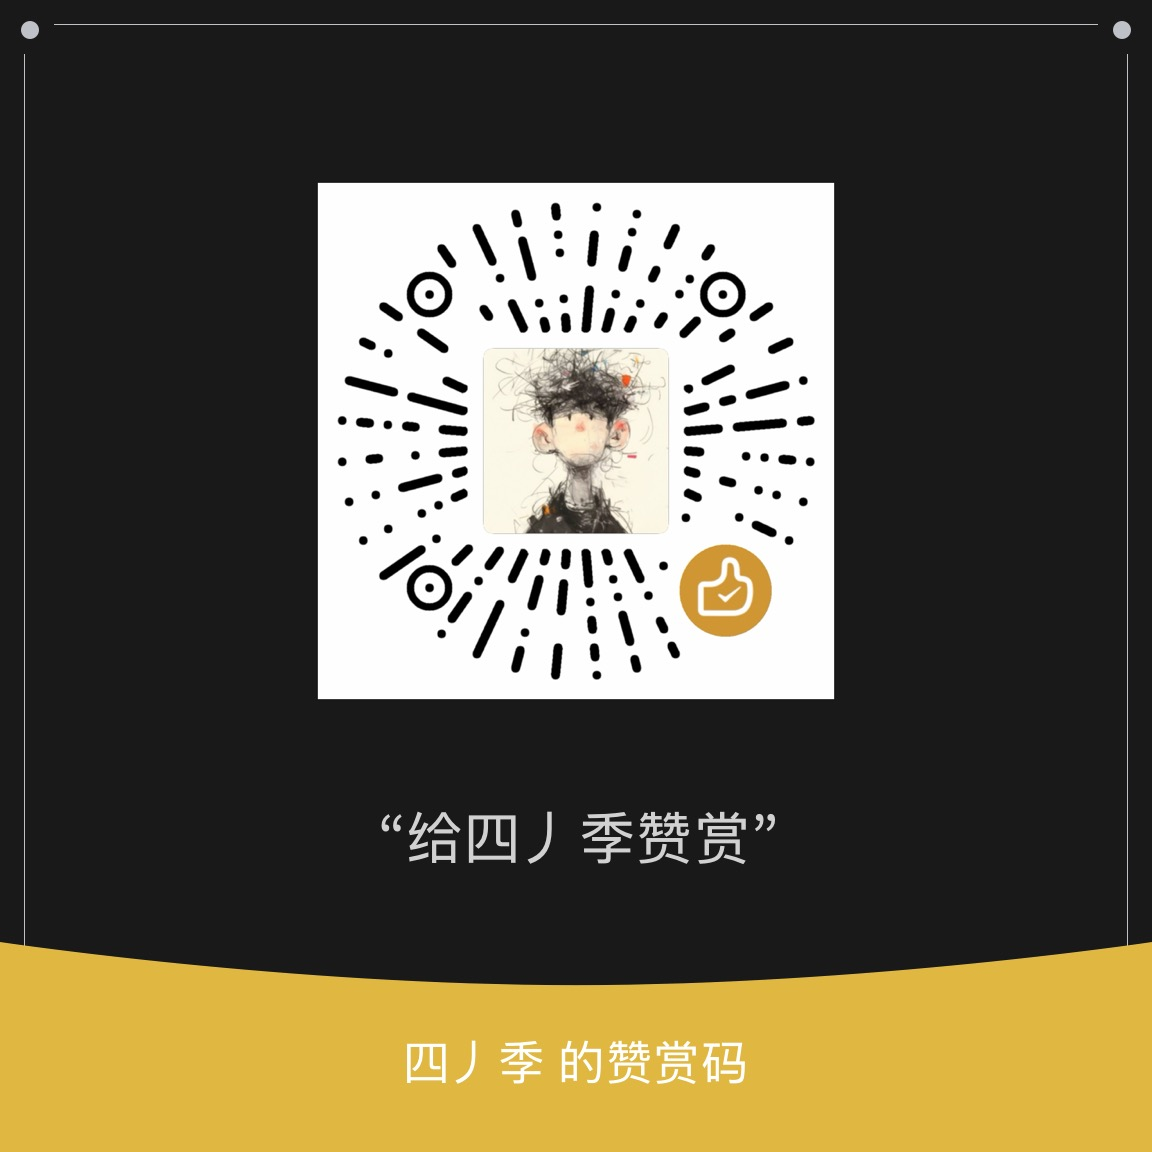
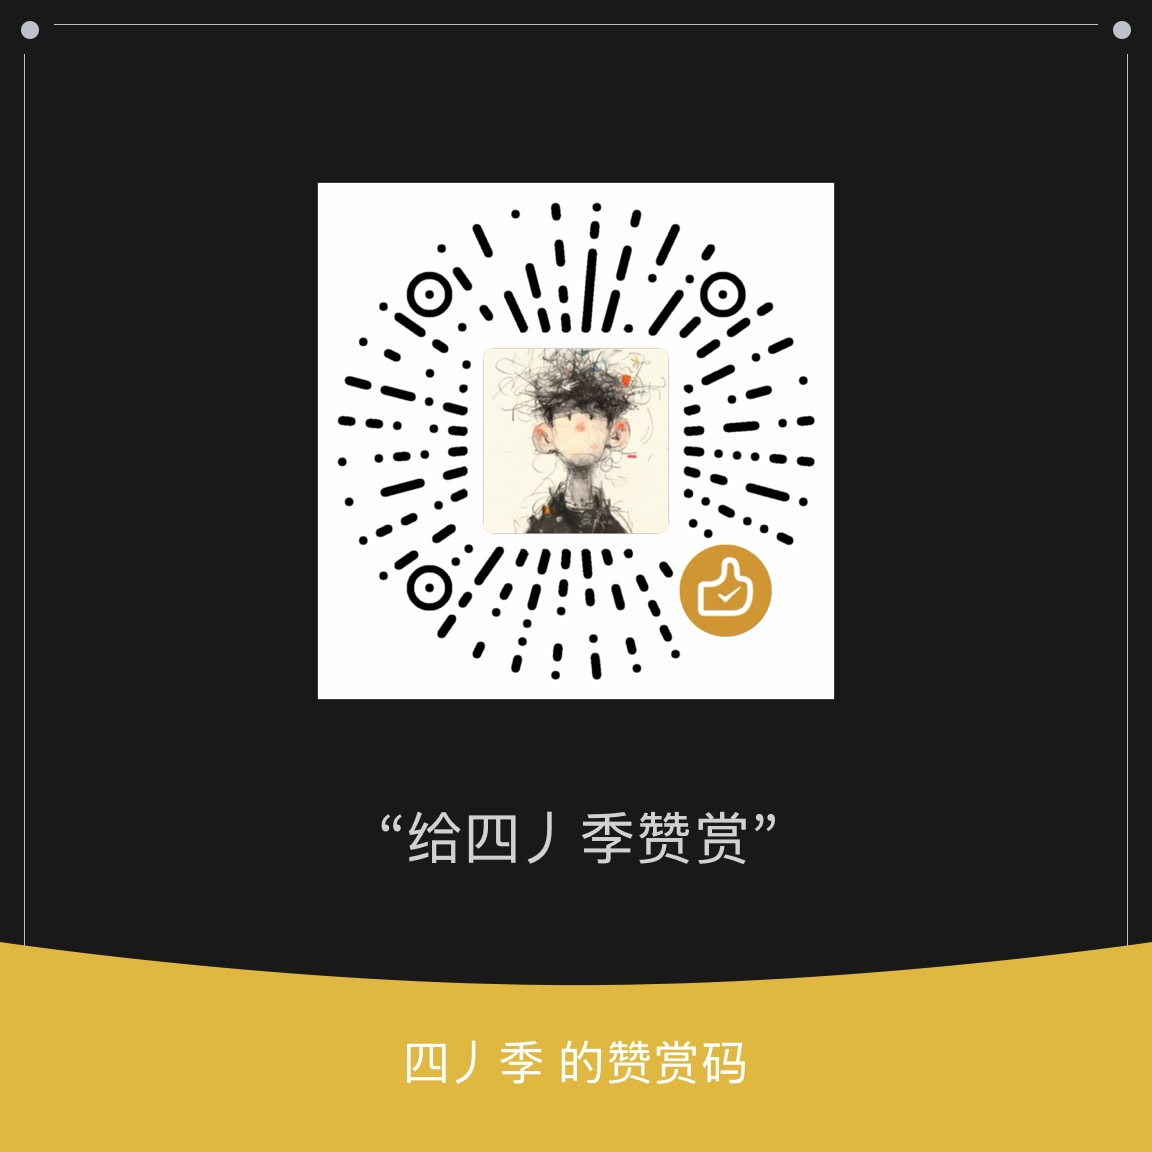
Update appreciation code with supplied image

diff --git a/site/index.html b/site/index.html
@@ -48,7 +48,7 @@
 <details><summary>遇到连接问题，如何说明情况？<span aria-hidden="true">＋</span></summary><p>记录车机年款、iPhone 型号、iOS 版本以及无线或 USB 连接方式，在下方交流区提供这些信息，方便一起排查。</p></details>
 </div></div></section>
 <section class="community-section container" id="community" aria-labelledby="community-title"><div class="community-card"><div class="community-icon" aria-hidden="true"><svg class="icon" viewBox="0 0 24 24"><path d="M21 11a8 8 0 0 1-8 8H7l-5 3 2-6a8 8 0 1 1 17-5Z"/><path d="M7 10h10m-10 4h6"/></svg></div><div class="community-copy"><span class="eyebrow">AUTUNNPLAY COMMUNITY</span><h2 id="community-title">一起聊聊，每次连接。</h2><p>加入 <strong>Autunnplay交流群</strong>，交流车型适配、安装方法和使用体验。</p><div class="community-actions"><a class="button primary" href="https://qm.qq.com/q/5XZu4U8flY" target="_blank" rel="noopener noreferrer" aria-label="加入 Autunnplay交流群">立即加入 QQ 群 <span aria-hidden="true">↗</span></a><button class="button secondary" type="button" id="copy-group-link">复制入群链接</button></div></div></div></section>
-<section class="support-section container" id="support" aria-labelledby="support-title"><div class="support-card appreciation-card"><div class="support-heading"><span class="eyebrow">APPRECIATE INDEPENDENT DEVELOPMENT</span><h2 id="support-title">给独立开发，一份赞赏。</h2><p>如果 Autunn Play 对你有帮助，欢迎赞赏支持独立开发。赞赏完全自愿，是否赞赏不影响软件的下载与使用。</p></div><figure class="appreciation-code"><a href="./assets/appreciation-code.jpg" target="_blank" rel="noopener" aria-label="查看四丿季赞赏码原图"><img src="./assets/appreciation-code.jpg" width="1152" height="1152" alt="四丿季的赞赏码" loading="lazy"></a><figcaption>点按查看原图</figcaption></figure><div class="appreciation-actions"><div class="support-actions"><a class="button primary" href="./assets/appreciation-code.jpg" download="四丿季-赞赏码.jpg">保存赞赏码 <span aria-hidden="true">↓</span></a><a class="support-secondary" href="./assets/appreciation-code.jpg" target="_blank" rel="noopener">查看大图 <span aria-hidden="true">↗</span></a></div><p class="support-note">手机端可点开原图后长按识别，或保存图片后识别；电脑端可用手机扫描。</p></div></div></section>
+<section class="support-section container" id="support" aria-labelledby="support-title"><div class="support-card appreciation-card"><div class="support-heading"><span class="eyebrow">APPRECIATE INDEPENDENT DEVELOPMENT</span><h2 id="support-title">给独立开发，一份赞赏。</h2><p>如果 Autunn Play 对你有帮助，欢迎赞赏支持独立开发。赞赏完全自愿，是否赞赏不影响软件的下载与使用。</p></div><figure class="appreciation-code"><a href="./assets/appreciation-code.jpg?v=69404a6b4bf4" target="_blank" rel="noopener" aria-label="查看四丿季赞赏码原图"><img src="./assets/appreciation-code.jpg?v=69404a6b4bf4" width="1152" height="1152" alt="四丿季的赞赏码" loading="lazy"></a><figcaption>点按查看原图</figcaption></figure><div class="appreciation-actions"><div class="support-actions"><a class="button primary" href="./assets/appreciation-code.jpg?v=69404a6b4bf4" download="四丿季-赞赏码.jpg">保存赞赏码 <span aria-hidden="true">↓</span></a><a class="support-secondary" href="./assets/appreciation-code.jpg?v=69404a6b4bf4" target="_blank" rel="noopener">查看大图 <span aria-hidden="true">↗</span></a></div><p class="support-note">手机端可点开原图后长按识别，或保存图片后识别；电脑端可用手机扫描。</p></div></div></section>
 </main>
 <footer class="site-footer container"><div><a class="brand" href="#"><span class="brand-mark"></span><span>Autunn Play</span></a><p>独立开发的车机连接软件。</p></div><div class="footer-right"><p class="source-credit">本项目使用了 <a href="https://github.com/shihabal3amri/DiPlay" target="_blank" rel="noopener noreferrer">DiPlay</a> 与 <a href="https://github.com/shilapi/xcertplay" target="_blank" rel="noopener noreferrer">xcertplay</a> 的源码，感谢原作者及贡献者。</p><p>独立开发与维护，与中国一汽、红旗品牌及 Apple 无隶属或官方授权关系。车型名称仅用于说明兼容性。CarPlay 为 Apple Inc. 的商标。</p></div></footer>
 <nav class="mobile-dock" aria-label="手机快捷导航"><a href="#experience"><svg class="icon" viewBox="0 0 24 24" aria-hidden="true"><rect x="3" y="4" width="18" height="13" rx="3"/><path d="M8 21h8m-4-4v4"/></svg><span>界面预览</span></a><a href="#install"><svg class="icon" viewBox="0 0 24 24" aria-hidden="true"><path d="M12 3v12m-4-4 4 4 4-4M4 16v4h16v-4"/></svg><span>适配与下载</span></a><a class="dock-help" href="#help"><svg class="icon" viewBox="0 0 24 24" aria-hidden="true"><path d="M21 11a8 8 0 0 1-8 8H7l-5 3 2-6a8 8 0 1 1 17-5Z"/><path d="M7 10h10m-10 4h6"/></svg><span>使用帮助</span></a></nav>
